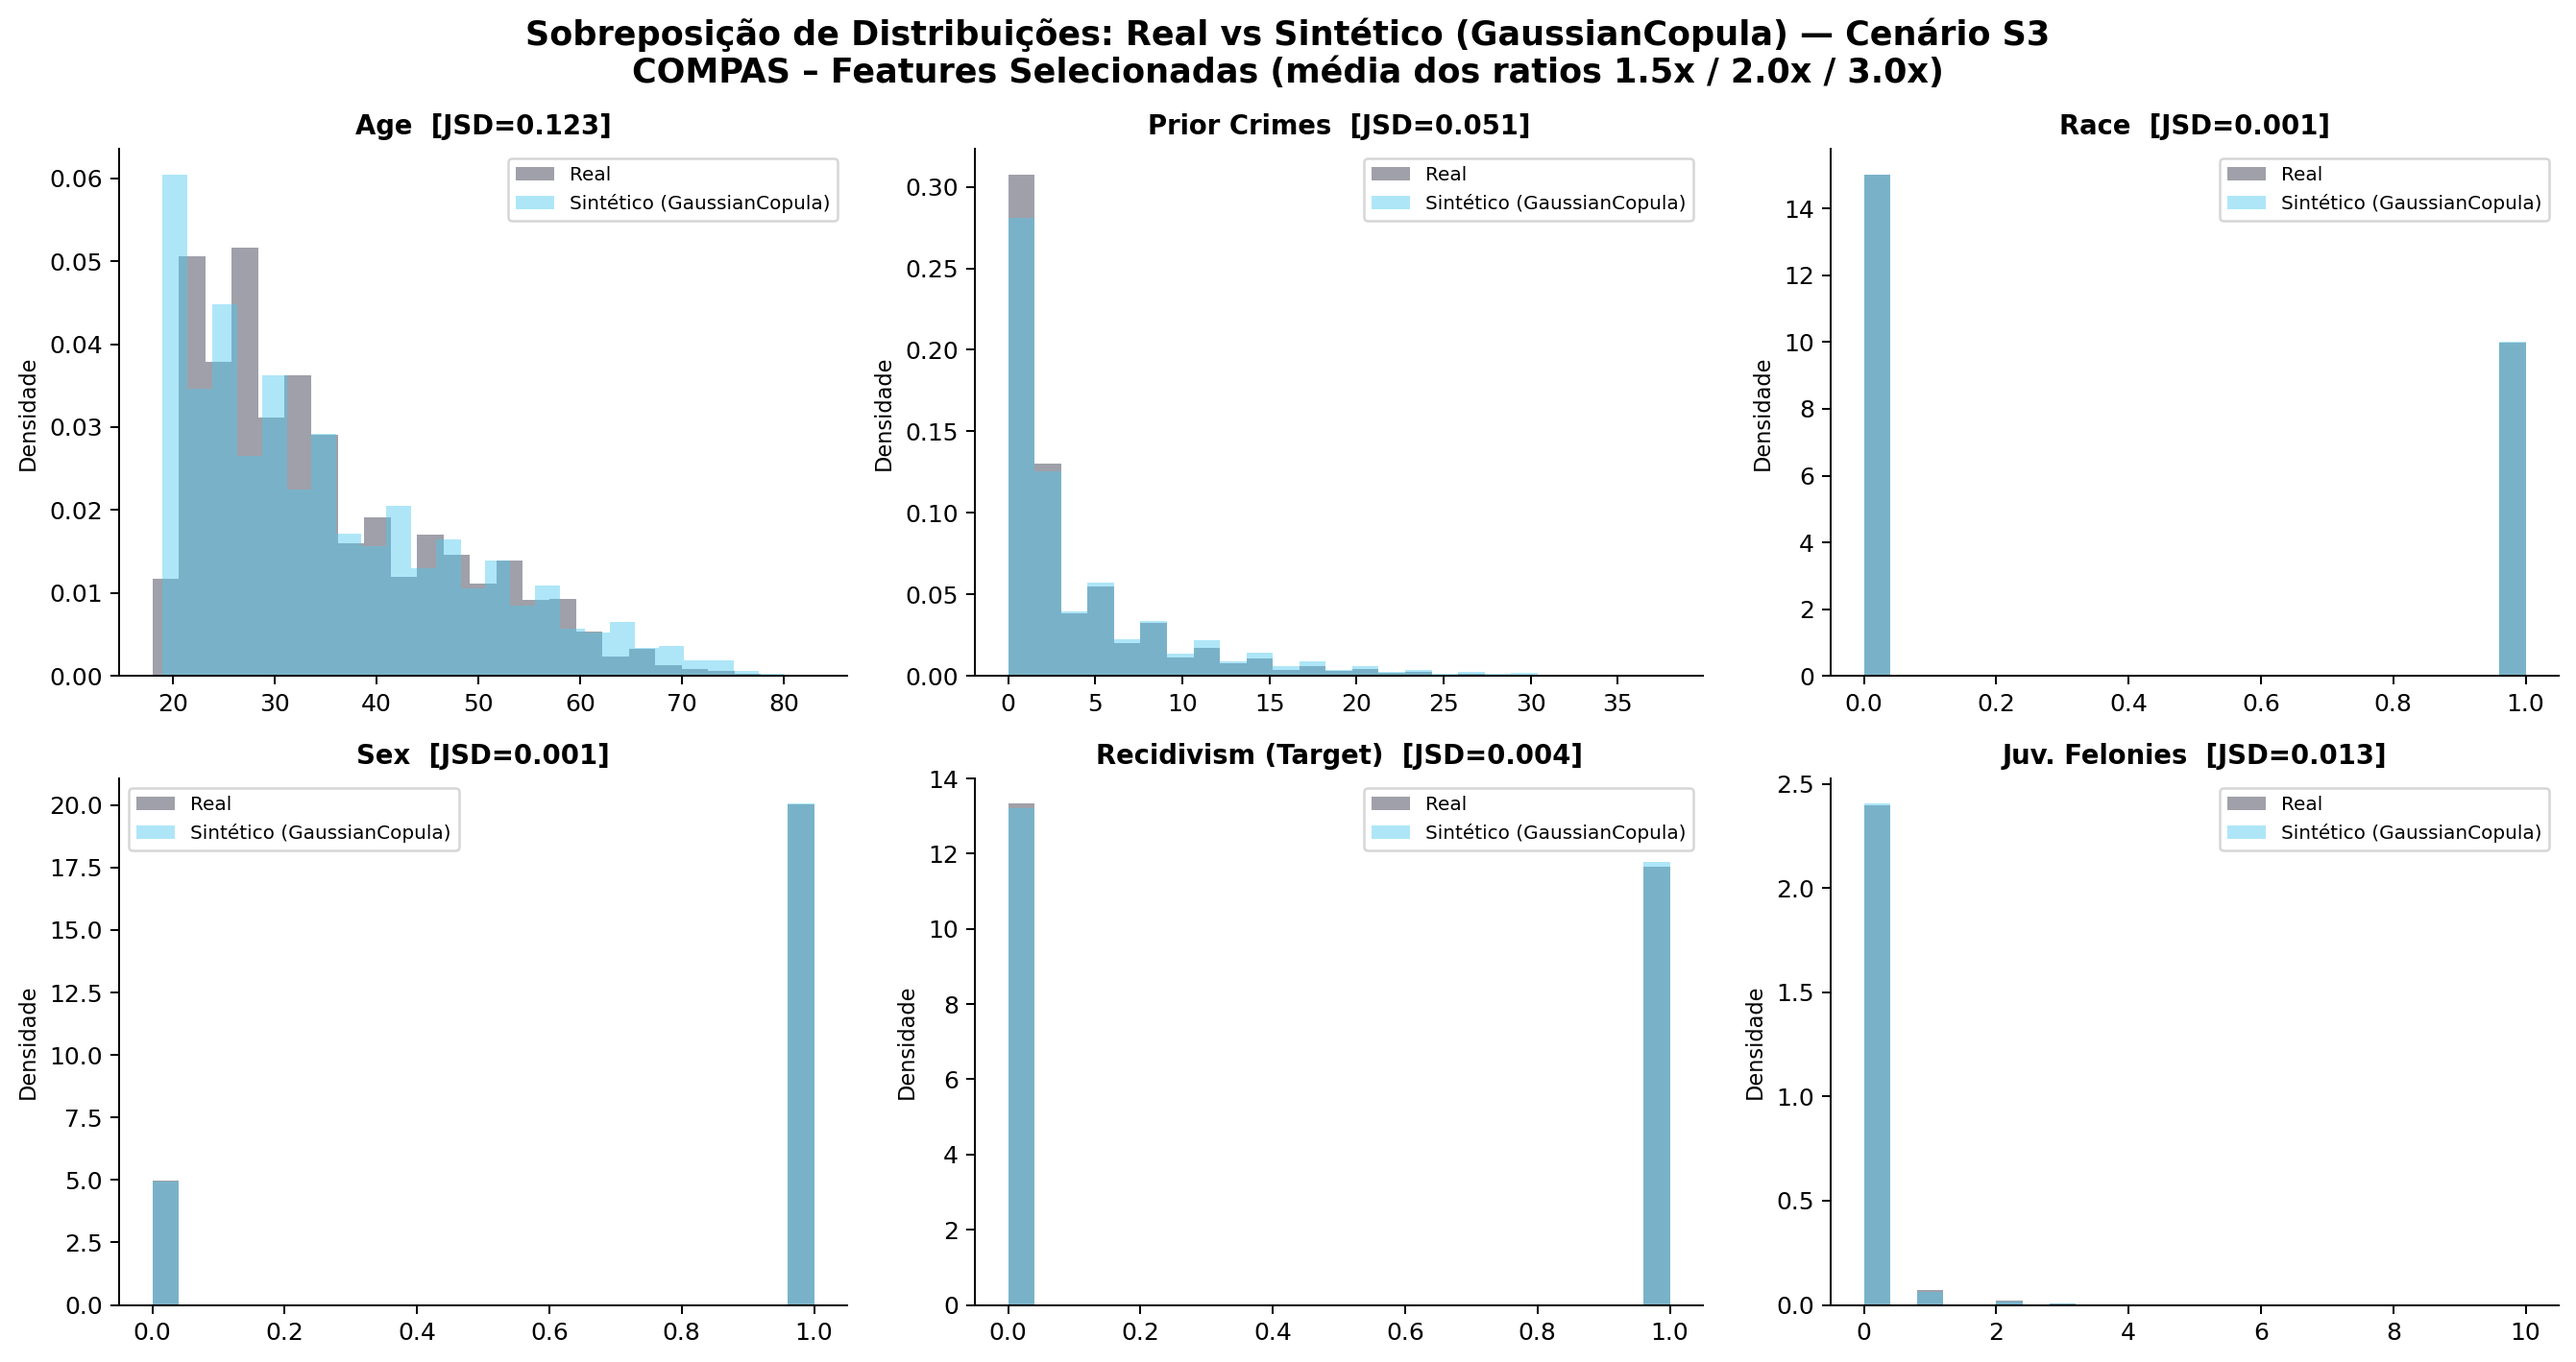
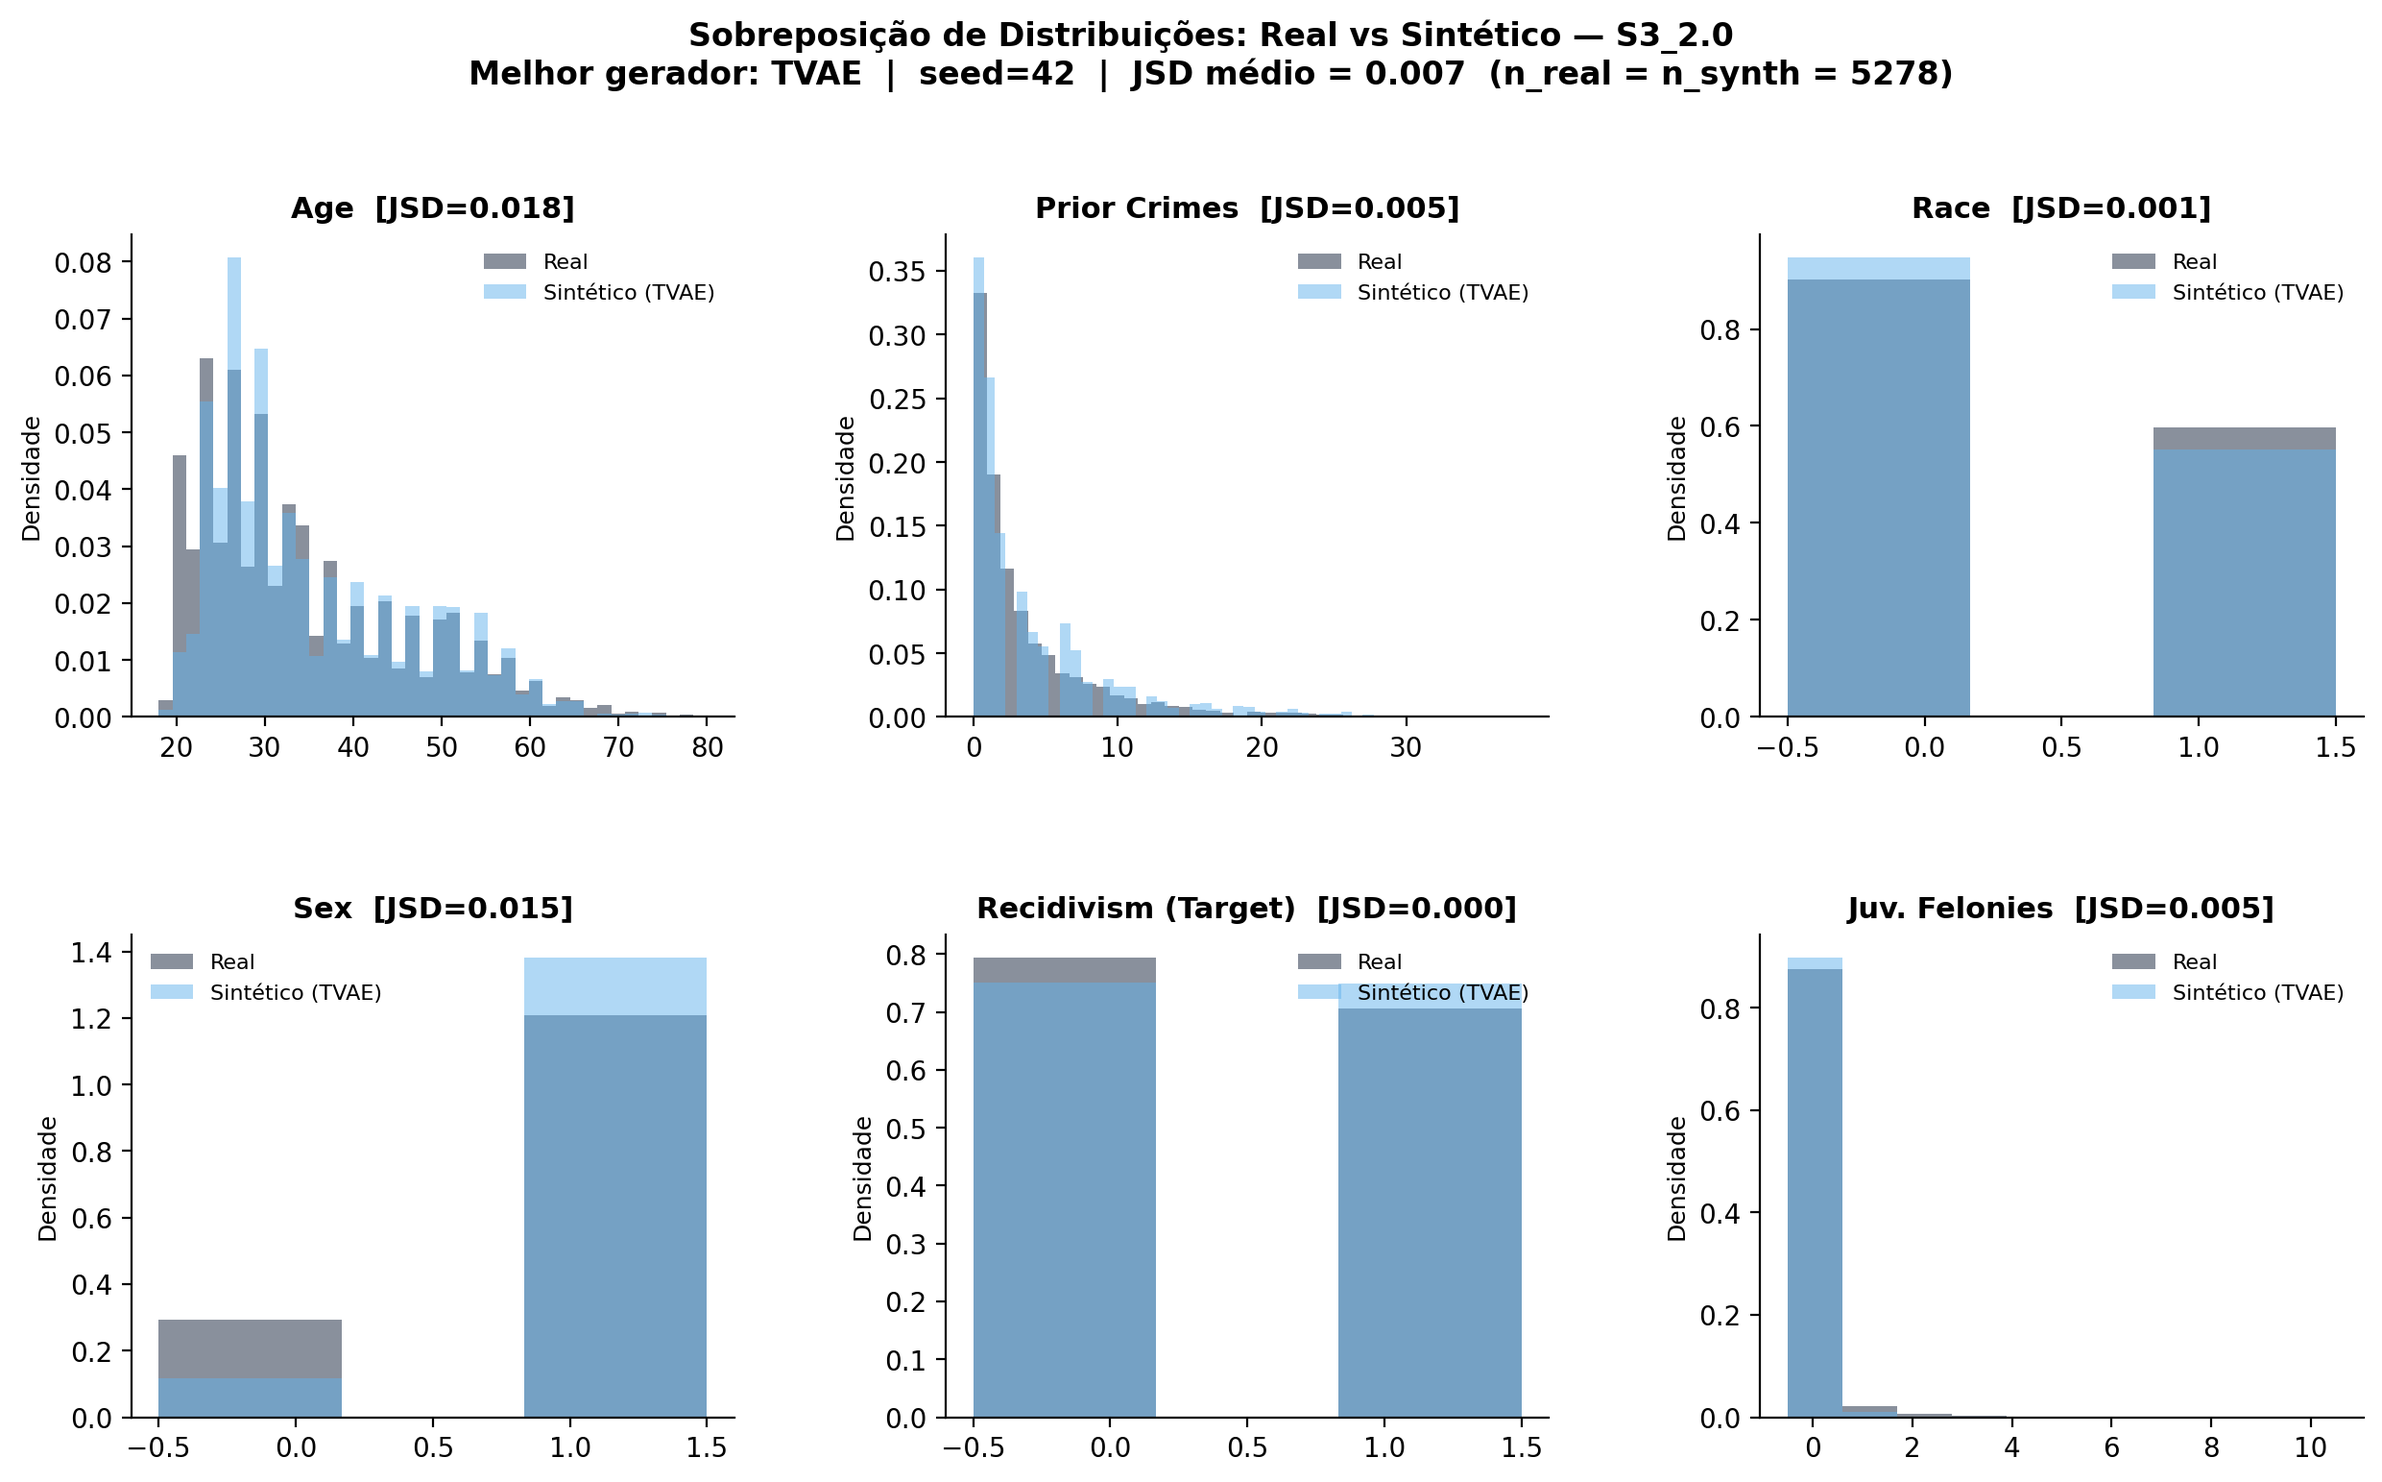
chore: update SDV heatmap and KDE overlay plots for the paper

Changed region(s): [[0.0, 0.124, 0.6518, 0.9922], [0.1241, 0.0, 0.9931, 0.6822], [0.6828, 0.5891, 0.9931, 0.9922]]

diff --git a/scripts/plots/plot_sdv_fidelity.py b/scripts/plots/plot_sdv_fidelity.py
@@ -1,0 +1,296 @@
+"""
+plot_sdv_fidelity.py
+
+Generates two statistical fidelity plots comparing real vs synthetic data.
+
+Logic:
+  - Reference scenario: S3_2.0 (fixed, mid-point augmentation ratio)
+  - For each generator × seed: sample n_real rows from synthetic, compute JSD per feature
+  - Aggregate JSD as mean across seeds → robust per-generator fidelity estimate
+  - Best generator = lowest mean JSD averaged across all features
+  - KDE overlay uses seed=42 of the best generator (canonical representative run)
+
+Plots saved to plots/paper/:
+  - plot_sdv_heatmap_jsd.png  : mean JSD heatmap  (Generator × Feature, averaged over seeds)
+  - plot_sdv_kde_overlay.png  : histogram overlay  (best generator, seed=42 vs real)
+
+Usage:
+    PYTHONPATH=. .venv/bin/python scripts/plots/plot_sdv_fidelity.py
+"""
+import warnings
+warnings.filterwarnings('ignore')
+
+import os
+import sys
+sys.path.append(os.path.dirname(os.path.dirname(os.path.abspath(__file__))))
+
+import numpy as np
+import pandas as pd
+import matplotlib
+matplotlib.use('Agg')
+import matplotlib.pyplot as plt
+import matplotlib.gridspec as gridspec
+import seaborn as sns
+from scipy.spatial.distance import jensenshannon
+
+from utils.data_loader import load_compas
+
+# ── Config ────────────────────────────────────────────────────────────────────
+SYNTH_ROOT         = os.path.join('synthetic_data', 'compas')
+OUT_DIR            = os.path.join('plots', 'paper')
+REFERENCE_SCENARIO = 'S3_2.0'
+GENERATORS         = ['CTGAN', 'GaussianCopula', 'TVAE', 'TabDDPM']
+CANONICAL_SEED     = 42   # seed used for the KDE overlay visual
+
+# Columns present in both real (load_compas) and synthetic CSVs
+COL_LABELS = {
+    'age':                      'Age',
+    'priors_count':             'Prior Crimes',
+    'juv_fel_count':            'Juv. Felonies',
+    'juv_misd_count':           'Juv. Misdemeanors',
+    'juv_other_count':          'Juv. Other',
+    'two_year_recid':           'Recidivism (Target)',
+    'sex':                      'Sex',
+    'c_charge_degree':          'Charge Degree',
+    'race':                     'Race',
+    'age_cat_Greater than 45':  'Age > 45',
+    'age_cat_Less than 25':     'Age < 25',
+}
+
+# Features shown in the KDE overlay (most informative)
+KDE_FEATURES = ['age', 'priors_count', 'race', 'sex', 'two_year_recid', 'juv_fel_count']
+
+os.makedirs(OUT_DIR, exist_ok=True)
+
+
+# ── Helpers ───────────────────────────────────────────────────────────────────
+def jsd_score(a: np.ndarray, b: np.ndarray, bins: int = 50) -> float:
+    """Jensen-Shannon Divergence² (histogram-based) in [0, 1]."""
+    lo, hi = min(a.min(), b.min()), max(a.max(), b.max())
+    if lo == hi:
+        return 0.0
+    edges = np.linspace(lo, hi, bins + 1)
+    p = np.histogram(a, bins=edges, density=True)[0].astype(float) + 1e-10
+    q = np.histogram(b, bins=edges, density=True)[0].astype(float) + 1e-10
+    p /= p.sum(); q /= q.sum()
+    return float(jensenshannon(p, q) ** 2)
+
+
+def load_synth_seed(generator: str, seed_file: str) -> pd.DataFrame:
+    """Load one synthetic seed CSV from the reference scenario."""
+    path = os.path.join(SYNTH_ROOT, REFERENCE_SCENARIO, generator, seed_file)
+    if not os.path.isfile(path):
+        return pd.DataFrame()
+    return pd.read_csv(path)
+
+
+def list_seed_files(generator: str) -> list[str]:
+    """Return sorted list of seed CSV filenames for a generator."""
+    gen_path = os.path.join(SYNTH_ROOT, REFERENCE_SCENARIO, generator)
+    if not os.path.isdir(gen_path):
+        return []
+    return sorted(f for f in os.listdir(gen_path) if f.endswith('.csv'))
+
+
+# ── JSD computation across seeds ─────────────────────────────────────────────
+def compute_jsd_per_seed(real_df: pd.DataFrame, generator: str) -> pd.DataFrame:
+    """
+    For each seed of `generator`, sample n_real rows from the synthetic data
+    and compute JSD per feature.
+
+    Returns a DataFrame with one row per seed and one column per feature.
+    """
+    features  = [c for c in COL_LABELS if c in real_df.columns]
+    n_real    = len(real_df)
+    seed_files = list_seed_files(generator)
+
+    rows = []
+    for fname in seed_files:
+        synth = load_synth_seed(generator, fname)
+        if synth.empty:
+            continue
+        # Down-sample to n_real for a fair like-for-like comparison
+        if len(synth) > n_real:
+            synth = synth.sample(n=n_real, random_state=CANONICAL_SEED)
+
+        row = {'seed_file': fname}
+        for feat in features:
+            if feat in synth.columns:
+                row[feat] = jsd_score(real_df[feat].values, synth[feat].values)
+            else:
+                row[feat] = np.nan
+        rows.append(row)
+
+    if not rows:
+        return pd.DataFrame()
+    return pd.DataFrame(rows).set_index('seed_file')
+
+
+# ── Best generator selection ──────────────────────────────────────────────────
+def select_best_generator(mean_jsd: pd.DataFrame) -> str:
+    """
+    Rank generators by mean JSD averaged across all features.
+    Lower is better (more similar to real data).
+    """
+    ranking = mean_jsd.mean(axis=1).sort_values()
+    print('\n  Generator ranking by mean JSD across features (↓ better):')
+    for gen, score in ranking.items():
+        marker = '  ← best' if gen == ranking.index[0] else ''
+        print(f'    {gen:<20} {score:.4f}{marker}')
+    best = ranking.index[0]
+    print(f'\n  Selected: {best}\n')
+    return best
+
+
+# ── Plot 1: JSD Heatmap (mean across seeds) ───────────────────────────────────
+def plot_heatmap_jsd(real_df: pd.DataFrame) -> pd.DataFrame:
+    """
+    For each generator, compute mean JSD across all seeds (S3_2.0).
+    Plot heatmap and return mean JSD DataFrame (index=generator, cols=features).
+    """
+    print(f'Computing JSD per generator × seed ({REFERENCE_SCENARIO})...')
+    features = [c for c in COL_LABELS if c in real_df.columns]
+
+    mean_rows = []
+    for gen in GENERATORS:
+        seed_jsd = compute_jsd_per_seed(real_df, gen)
+        if seed_jsd.empty:
+            print(f'  [WARN] No data for {gen}')
+            continue
+        n_seeds = len(seed_jsd)
+        mean_row = seed_jsd[features].mean()
+        mean_row.name = gen
+        mean_rows.append(mean_row)
+        print(f'  {gen:<20} computed over {n_seeds} seeds')
+
+    if not mean_rows:
+        print('  [SKIP] No data available.')
+        return pd.DataFrame()
+
+    mean_jsd = pd.DataFrame(mean_rows)[features]  # (generator × feature)
+
+    # Pretty names for display
+    jsd_plot = mean_jsd.copy()
+    jsd_plot.columns = [COL_LABELS[c] for c in features]
+
+    n_cols = len(jsd_plot.columns)
+    fig, ax = plt.subplots(figsize=(max(11, n_cols * 1.1 + 2), len(jsd_plot) * 1.3 + 2))
+    sns.heatmap(
+        jsd_plot, annot=True, fmt='.3f',
+        cmap='YlOrRd', vmin=0, vmax=0.35,
+        linewidths=1.5, linecolor='white',
+        annot_kws={'size': 11, 'weight': 'bold'},
+        cbar_kws={'label': 'JSD médio entre seeds (↓ = mais similar ao real)'},
+        ax=ax,
+    )
+    ax.set_xlabel('Feature', fontsize=12)
+    ax.set_ylabel('Gerador Sintético', fontsize=12)
+    ax.tick_params(axis='x', rotation=35, labelsize=10)
+    ax.tick_params(axis='y', rotation=0,  labelsize=10)
+    ax.set_title(
+        f'Similaridade Estatística: Dados Reais × Dados Sintéticos (COMPAS) — {REFERENCE_SCENARIO}\n'
+        f'Jensen-Shannon Divergence médio por Gerador × Feature  '
+        f'(média de {len(mean_rows[0].index) if mean_rows else "?"} seeds por gerador)',
+        fontsize=12, fontweight='bold', pad=14,
+    )
+    fig.tight_layout()
+    out = os.path.join(OUT_DIR, 'plot_sdv_heatmap_jsd.png')
+    fig.savefig(out, dpi=200, bbox_inches='tight')
+    plt.close(fig)
+    print(f'  saved → {out}')
+
+    return mean_jsd
+
+
+# ── Plot 2: KDE / Histogram Overlay (best generator, seed=42) ────────────────
+def plot_kde_overlay(real_df: pd.DataFrame, gen: str):
+    """
+    Compare real vs synthetic distributions for the best generator.
+    Uses seed=42 as the canonical representative run.
+    """
+    seed_fname = f'seed_{CANONICAL_SEED}.csv'
+    print(f'Generating KDE overlay ({gen}, {seed_fname})...')
+
+    synth = load_synth_seed(gen, seed_fname)
+    if synth.empty:
+        print(f'  [SKIP] {seed_fname} not found for {gen}.')
+        return
+
+    n_real = len(real_df)
+    if len(synth) > n_real:
+        synth = synth.sample(n=n_real, random_state=CANONICAL_SEED)
+
+    features = [f for f in KDE_FEATURES if f in real_df.columns and f in synth.columns]
+    n_rows, n_cols = 2, 3
+
+    jsd_vals = {
+        feat: jsd_score(real_df[feat].dropna().values, synth[feat].dropna().values)
+        for feat in features
+    }
+
+    fig = plt.figure(figsize=(15, 8))
+    gs  = gridspec.GridSpec(n_rows, n_cols, figure=fig, hspace=0.45, wspace=0.35)
+
+    for idx, feat in enumerate(features):
+        ax    = fig.add_subplot(gs[idx // n_cols, idx % n_cols])
+        label = COL_LABELS.get(feat, feat)
+        jsd   = jsd_vals[feat]
+
+        r_vals = real_df[feat].dropna().values
+        s_vals = synth[feat].dropna().values
+
+        # Binary / low-cardinality → aligned histogram; continuous → free bins
+        unique_r = np.unique(r_vals)
+        if len(unique_r) <= 12:
+            lo   = min(r_vals.min(), s_vals.min())
+            hi   = max(r_vals.max(), s_vals.max())
+            bins = np.linspace(lo - 0.5, hi + 0.5, len(unique_r) + 2)
+        else:
+            bins = 40
+
+        ax.hist(r_vals, bins=bins, density=True, alpha=0.65,
+                color='#4a5568', label='Real')
+        ax.hist(s_vals, bins=bins, density=True, alpha=0.50,
+                color='#63b3ed', label=f'Sintético ({gen})')
+
+        ax.set_title(f'{label}  [JSD={jsd:.3f}]', fontsize=11, fontweight='bold')
+        ax.set_ylabel('Densidade', fontsize=9)
+        ax.legend(fontsize=8, frameon=False)
+        ax.spines['top'].set_visible(False)
+        ax.spines['right'].set_visible(False)
+
+    mean_jsd = np.nanmean(list(jsd_vals.values()))
+    fig.suptitle(
+        f'Sobreposição de Distribuições: Real vs Sintético — {REFERENCE_SCENARIO}\n'
+        f'Melhor gerador: {gen}  |  seed={CANONICAL_SEED}  |  JSD médio = {mean_jsd:.3f}  '
+        f'(n_real = n_synth = {n_real})',
+        fontsize=12, fontweight='bold', y=1.02,
+    )
+    out = os.path.join(OUT_DIR, 'plot_sdv_kde_overlay.png')
+    fig.savefig(out, dpi=200, bbox_inches='tight')
+    plt.close(fig)
+    print(f'  saved → {out}')
+
+
+# ── Main ──────────────────────────────────────────────────────────────────────
+def main():
+    print('\n' + '═' * 65)
+    print(f'  plot_sdv_fidelity.py  ·  Fidelity Analysis  [{REFERENCE_SCENARIO}]')
+    print('═' * 65 + '\n')
+
+    real_df = load_compas()
+    print(f'  Real data  : {len(real_df)} rows × {real_df.shape[1]} cols')
+    print(f'  Scenario   : {REFERENCE_SCENARIO}')
+    print(f'  Generators : {", ".join(GENERATORS)}')
+    print(f'  Sampling   : n_synth → n_real = {len(real_df)} (per seed)\n')
+
+    mean_jsd = plot_heatmap_jsd(real_df)
+    best_gen = select_best_generator(mean_jsd)
+    plot_kde_overlay(real_df, gen=best_gen)
+
+    print('\n  ✔ Done! Plots saved to', OUT_DIR)
+    print('═' * 65 + '\n')
+
+
+if __name__ == '__main__':
+    main()
